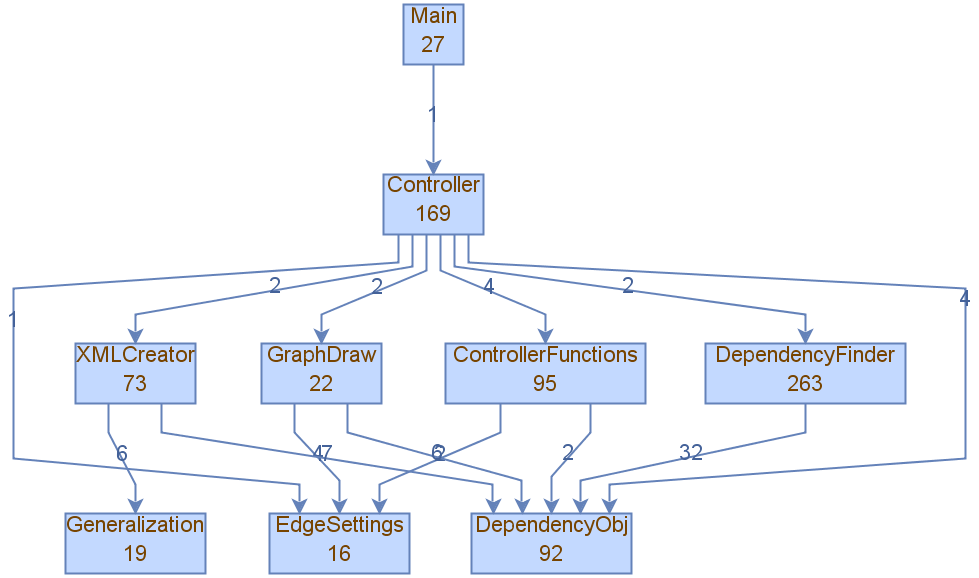
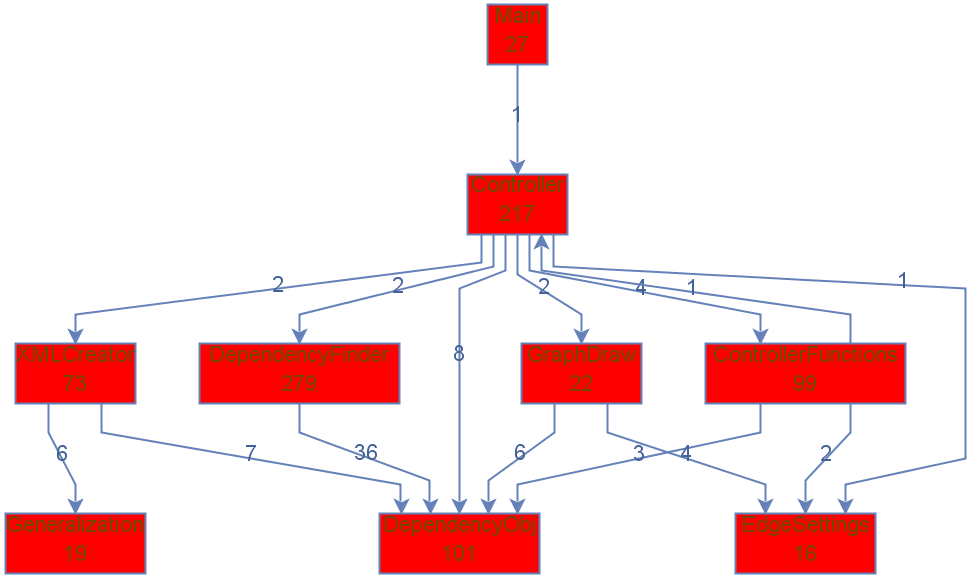
Added image mnipulation in widow, colored graphs to recognize subgraph

diff --git a/src/main/java/controller/Controller.java b/src/main/java/controller/Controller.java
@@ -1,42 +1,38 @@
 package controller;
 
 import com.jamesmurty.utils.XMLBuilder2;
-
-import javafx.event.Event;
-import javafx.event.EventHandler;
-import javafx.scene.Scene;
-import javafx.scene.control.*;
-import javafx.scene.layout.VBox;
-import javafx.stage.FileChooser;
-import model.export.XMLCreator;
-
-import org.jgrapht.graph.DefaultDirectedWeightedGraph;
-
-import java.awt.event.ActionListener;
-import java.io.File;
-import java.io.FileNotFoundException;
-import java.io.FileOutputStream;
-import java.io.IOException;
-import java.io.PrintWriter;
-import java.util.ArrayList;
-import java.util.List;
-import java.util.Properties;
-
-import javax.swing.JFileChooser;
-
 import javafx.application.Platform;
 import javafx.event.ActionEvent;
 import javafx.fxml.FXML;
+import javafx.geometry.Point2D;
+import javafx.scene.Scene;
+import javafx.scene.canvas.Canvas;
+import javafx.scene.control.Button;
+import javafx.scene.control.CheckBox;
+import javafx.scene.control.Label;
 import javafx.scene.image.Image;
-import javafx.scene.image.ImageView;
+import javafx.scene.input.MouseButton;
+import javafx.scene.input.MouseEvent;
+import javafx.scene.input.ScrollEvent;
 import javafx.scene.layout.GridPane;
+import javafx.scene.layout.VBox;
 import javafx.stage.DirectoryChooser;
+import javafx.stage.FileChooser;
 import javafx.stage.Stage;
 import model.DependencyFinder;
 import model.DependencyObj;
 import model.EdgeSettings;
 import model.GraphDraw;
 import model.export.XMLCreator;
+import org.jgrapht.graph.DefaultDirectedWeightedGraph;
+
+import java.io.File;
+import java.io.FileNotFoundException;
+import java.io.FileOutputStream;
+import java.io.PrintWriter;
+import java.util.ArrayList;
+import java.util.List;
+import java.util.Properties;
 
 public class Controller {
     @FXML
@@ -45,9 +41,10 @@ public class Controller {
     @FXML
     private Label viewingInfo;
     @FXML
-    private ImageView imageLabel;
+    private Canvas imageLabel;
     private Image image;
     private Stage onCreatedStage;
+    private Point2D imageTranslateBegining;
 
     private DependencyFinder dependencyFinder;
     private DirectoryChooser directoryChooser;
@@ -55,6 +52,38 @@ public class Controller {
     private final static String fileNameForSecondGraph = "methodDependencies";
     private final static String fileNameForThirdGraph = "moduleDependencies";
     private final static String fileNameForMixedGraph = "mixedDependencies";
+
+    public void scaleImage(ScrollEvent scrollEvent) {
+        System.out.println(scrollEvent);
+        imageLabel.getGraphicsContext2D().clearRect(0,0,image.getWidth(), image.getHeight());
+        if(scrollEvent.getDeltaY() > 0) {
+            imageLabel.getGraphicsContext2D().scale(1.2, 1.2);
+        } else {
+            imageLabel.getGraphicsContext2D().scale(0.8,0.8);
+        }
+
+        imageLabel.getGraphicsContext2D().fill();
+        imageLabel.getGraphicsContext2D().drawImage(image, 0,0);
+    }
+
+    public void imageTranslateStart(MouseEvent mouseEvent) {
+        if(mouseEvent.getButton() == MouseButton.PRIMARY) {
+            this.imageTranslateBegining = new Point2D(mouseEvent.getX(), mouseEvent.getY());
+        }
+        System.out.println("Clicked");
+    }
+
+    public void imageTranslateEnd(MouseEvent mouseEvent) {
+        //in big scale dx is greater than in lower scale
+        double scale = imageLabel.getGraphicsContext2D().getTransform().getMxx(); // from transfrom matrix in graphics
+        scale = 1/scale;
+        Point2D imageDxDy = this.imageTranslateBegining.subtract(mouseEvent.getX(), mouseEvent.getY()).multiply(-1 * scale);
+        imageLabel.getGraphicsContext2D().clearRect(0,0,image.getWidth(), image.getHeight());
+        imageLabel.getGraphicsContext2D().translate(imageDxDy.getX(), imageDxDy.getY());
+        imageLabel.getGraphicsContext2D().drawImage(image, 0, 0);
+
+        System.out.println(imageDxDy);
+    }
 
     private interface LoadDependency {
         List<DependencyObj> getDependencies(String absolutePath);
@@ -81,20 +110,20 @@ public class Controller {
             File imageFile1 = new File(System.getProperty("user.dir").toString() + "/src/main/resources/" + fileName + ".png");
             viewingInfo.setText(viewingInfoText);
 
-            ControllerFunctions.loadingImage(imageFile1, imageLabel, image, gridPane);
+            ControllerFunctions.loadingImage(imageFile1, imageLabel, this, gridPane);
         }
     }
 
     public void loadFileDep(ActionEvent actionEvent) {
-        makeDependencies(absolutePath -> dependencyFinder.getFilesDependencies(absolutePath), fileNameForFirstGraph, "Showing class dependencies");
+        makeDependencies(absolutePath -> dependencyFinder.getFilesDependencies(absolutePath, "fillColor=red"), fileNameForFirstGraph, "Showing class dependencies");
     }
 
     public void loadMethodDep(ActionEvent actionEvent) {
-        makeDependencies(absolutePath -> dependencyFinder.getMethodsDependencies(absolutePath), fileNameForSecondGraph, "Showing method dependencies");
+        makeDependencies(absolutePath -> dependencyFinder.getMethodsDependencies(absolutePath, "fillColor=blue"), fileNameForSecondGraph, "Showing method dependencies");
     }
 
     public void loadPackageDep(ActionEvent actionEvent) {
-        makeDependencies(absolutePath -> dependencyFinder.getModuleDependencies(absolutePath), fileNameForThirdGraph, "Showing module dependencies");
+        makeDependencies(absolutePath -> dependencyFinder.getModuleDependencies(absolutePath, "fillColor=green"), fileNameForThirdGraph, "Showing module dependencies");
     }
 
     public void exportToXML(ActionEvent actionEvent) {
@@ -123,6 +152,10 @@ public class Controller {
         }
     }
 
+    public void setImage(Image image) {
+        this.image = image;
+    }
+
     public void chooseCombination() {
         VBox secondaryLayout = new VBox();
         CheckBox checkBoxFile = new CheckBox("File Dependencies");
@@ -147,15 +180,15 @@ public class Controller {
             makeDependencies(absolutePath -> {
                 List<DependencyObj> mixedDependencies = new ArrayList<>();
                 if (checkBoxFile.isSelected()) {
-                    List<DependencyObj> filesDependencies = dependencyFinder.getFilesDependencies(absolutePath);
+                    List<DependencyObj> filesDependencies = dependencyFinder.getFilesDependencies(absolutePath, "fillColor=red");
                     mixedDependencies.addAll(filesDependencies);
                 }
                 if (checkBoxMethod.isSelected()) {
-                    List<DependencyObj> methodsDependencies = dependencyFinder.getMethodsDependencies(absolutePath);
+                    List<DependencyObj> methodsDependencies = dependencyFinder.getMethodsDependencies(absolutePath, "fillColor=green");
                     mixedDependencies.addAll(methodsDependencies);
                 }
                 if (checkBoxPackage.isSelected()) {
-                    List<DependencyObj> moduleDependencies = dependencyFinder.getModuleDependencies(absolutePath);
+                    List<DependencyObj> moduleDependencies = dependencyFinder.getModuleDependencies(absolutePath, "fillColor=blue");
                     mixedDependencies.addAll(moduleDependencies);
                 }
                 return mixedDependencies;
@@ -176,5 +209,9 @@ public class Controller {
 
     public void showAppInfo(ActionEvent actionEvent) {
         ControllerFunctions.infoAlert();
+    }
+
+    public Image getImage() {
+        return this.image;
     }
 }

diff --git a/src/main/java/model/DependencyFinder.java b/src/main/java/model/DependencyFinder.java
@@ -22,7 +22,11 @@ public class DependencyFinder {
         return lastCreatedDependencies;
     }
 
-    public List<DependencyObj> getFilesDependencies(String absoluteDirectoryPath){//Function which construct files dependency for STORY 1
+    public List<DependencyObj> getFilesDependencies(String absoluteDirectoryPath) {
+        return getFilesDependencies(absoluteDirectoryPath, "");
+    }
+
+    public List<DependencyObj> getFilesDependencies(String absoluteDirectoryPath, String style){//Function which construct files dependency for STORY 1
 
         List<DependencyObj> filesDependencies = new LinkedList<>();
         List<TypeDeclaration> classList = new LinkedList<>();
@@ -35,7 +39,7 @@ public class DependencyFinder {
             if(!result.isPresent()) continue; //skip empty object
             for(TypeDeclaration typeDec : result.get().getTypes()) {
                 DependencyObj obj = new DependencyObj(typeDec.getNameAsString());
-
+                obj.setStyle(style);
                 //Size of file represented as lines count
                 Optional<Range> fileRange = typeDec.getRange();
                 if(fileRange.isPresent()){
@@ -80,7 +84,11 @@ public class DependencyFinder {
         return filesDependencies;
     }
 
-    public List<DependencyObj> getMethodsDependencies(String absoluteDirectoryPath) { // STORY 2
+    public List<DependencyObj> getMethodsDependencies(String absoluteDirectoryPath) {
+        return getMethodsDependencies(absoluteDirectoryPath, "");
+    }
+
+    public List<DependencyObj> getMethodsDependencies(String absoluteDirectoryPath, String style) { // STORY 2
         List<DependencyObj> dependenciesList = new LinkedList<>();
         List<MethodDeclaration> methodsList = new LinkedList<>();
 
@@ -98,6 +106,7 @@ public class DependencyFinder {
                     if (member.isMethodDeclaration()) {
                         MethodDeclaration method = (MethodDeclaration) member;
                         DependencyObj methodDependency = new DependencyObj(method.getNameAsString());
+                        methodDependency.setStyle(style);
                         dependenciesList.add(methodDependency);
                         methodsList.add(method);
                     }
@@ -131,8 +140,11 @@ public class DependencyFinder {
         return dependenciesList;
     }
 
+    public List<DependencyObj> getModuleDependencies(String rootFile) {
+        return getModuleDependencies(rootFile, "");
+    }
 
-    public List<DependencyObj> getModuleDependencies(String rootFile) {    //story 3
+    public List<DependencyObj> getModuleDependencies(String rootFile, String style) {    //story 3
         List<DependencyObj> moduleDependencies = new LinkedList<>();
         Map<PackageDeclaration, Set<DependencyObj>> packagesMethods = new HashMap<>(); //set to have unique method names
 
@@ -157,7 +169,11 @@ public class DependencyFinder {
             List<DependencyObj> allClassMethods = classFile
                     .findAll(MethodDeclaration.class)
                     .stream()
-                    .map((method) -> new DependencyObj(method.getNameAsString() + "\n" + packageName))
+                    .map((method) -> {
+                        DependencyObj temp = new DependencyObj(method.getNameAsString() + "\n" + packageName);
+                        temp.setStyle(style);
+                        return temp;
+                    })
                     .collect(Collectors.toList());
 
 

diff --git a/src/main/java/controller/ControllerFunctions.java b/src/main/java/controller/ControllerFunctions.java
@@ -2,27 +2,28 @@ package controller;
 
 import com.mxgraph.layout.hierarchical.mxHierarchicalLayout;
 import com.mxgraph.layout.mxIGraphLayout;
+import com.mxgraph.model.mxICell;
 import com.mxgraph.util.mxCellRenderer;
-
-import org.jgrapht.ext.JGraphXAdapter;
-import org.jgrapht.graph.DefaultDirectedWeightedGraph;
-
-import java.awt.image.BufferedImage;
-import java.io.File;
-import java.io.IOException;
-
-import javax.imageio.ImageIO;
-
+import javafx.scene.canvas.Canvas;
 import javafx.scene.control.Alert;
 import javafx.scene.image.Image;
 import javafx.scene.image.ImageView;
 import javafx.scene.image.PixelWriter;
 import javafx.scene.image.WritableImage;
 import javafx.scene.layout.GridPane;
+import javafx.scene.paint.Color;
 import javafx.stage.DirectoryChooser;
 import javafx.stage.Stage;
 import model.DependencyObj;
 import model.EdgeSettings;
+import org.jgrapht.ext.JGraphXAdapter;
+import org.jgrapht.graph.DefaultDirectedWeightedGraph;
+
+import javax.imageio.ImageIO;
+import java.awt.image.BufferedImage;
+import java.io.File;
+import java.io.IOException;
+import java.util.Map;
 
 public class ControllerFunctions {
     private static Stage onCreatedStage;
@@ -35,8 +36,11 @@ public class ControllerFunctions {
         }
 
         JGraphXAdapter<DependencyObj, EdgeSettings> graphAdapter = new JGraphXAdapter<>(g);
-
         mxIGraphLayout layout = new mxHierarchicalLayout(graphAdapter);
+
+        for(Map.Entry<DependencyObj, mxICell> iter : graphAdapter.getVertexToCellMap().entrySet()) {
+            iter.getValue().setStyle(iter.getKey().getStyle());
+        }
         layout.execute(graphAdapter.getDefaultParent());
 
         BufferedImage image = mxCellRenderer.createBufferedImage(graphAdapter, null, 2, java.awt.Color.WHITE , true, null);
@@ -63,16 +67,16 @@ public class ControllerFunctions {
         return new ImageView(wr).getImage();
     }
 
-    public static void loadingImage(File imageFile, ImageView imageLabel, Image image, GridPane gridPane){
+    public static void loadingImage(File imageFile, Canvas imageLabel, Controller controller, GridPane gridPane){
         try {
-            image = convertToFxImage(ImageIO.read(imageFile));
-
-            imageLabel.setImage(image);
-            imageLabel.setFitHeight(gridPane.getHeight());
-            imageLabel.setFitWidth(gridPane.getWidth());
-            imageLabel.fitHeightProperty().bind(gridPane.heightProperty());
-            //icon = new ImageView(icon.getImage());
-            System.out.println(" X: " + imageLabel.getScaleX() + " Y: " + imageLabel.getScaleY() + " Width: " + imageLabel.getImage().getWidth() + "Height: " + imageLabel.getImage().getHeight());
+            Image image = convertToFxImage(ImageIO.read(imageFile));
+            if(controller.getImage() != null) {
+                imageLabel.getGraphicsContext2D().clearRect(0,0,controller.getImage().getWidth(), controller.getImage().getHeight());
+            }
+            controller.setImage(image);
+            imageLabel.getGraphicsContext2D().restore();
+            imageLabel.getGraphicsContext2D().setFill(Color.BLACK);
+            imageLabel.getGraphicsContext2D().drawImage(image, 0., 0.);
         }catch (IOException e) {
             System.err.println("Blad odczytu obrazka");
             e.printStackTrace();

diff --git a/src/main/java/model/DependencyObj.java b/src/main/java/model/DependencyObj.java
@@ -10,6 +10,7 @@ public class DependencyObj {
     private Integer id;
     private String name;
     private Integer weight = 0;  // Current object weight
+    private String edgeStyle = "";
     private HashMap<DependencyObj, Integer> dependencyList = new HashMap<>(); // dependencyObject with edge weight
 
     public DependencyObj() {
@@ -88,5 +89,13 @@ public class DependencyObj {
     @Override
     public int hashCode() {
         return Objects.hash(name);
+    }
+
+    public String getStyle() {
+        return this.edgeStyle;
+    }
+
+    public void setStyle(String style) {
+        this.edgeStyle = style;
     }
 }
